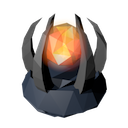
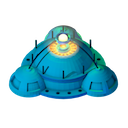
add new building image add explode emmiter

diff --git a/Energy/Energy/islandLayer/MapLayer.swift b/Energy/Energy/islandLayer/MapLayer.swift
@@ -255,6 +255,15 @@ class BuildingMapLayer: SKSpriteNode {
         return data
     }
     
+    // MARK: Explode Emitter
+    func explodeBuilding(building: SKNode) {
+        let emitter = SKEmitterNode(fileNamed: "Explode.sks")!
+        let pos = CGPoint(x: building.position.x + 32, y: building.position.y - 32)
+        emitter.position = pos
+        emitter.zPosition = 1
+        addChild(emitter)
+    }
+    
     // MARK: BuildingMap Update
     func Update() {
         
@@ -454,6 +463,7 @@ class BuildingMapLayer: SKSpriteNode {
         // 1. Destroy
         for element in heatSystemElements {
             if element.buildingData.heatSystem.overflow() {
+                explodeBuilding(element)
                 setTileMapElement(coord: element.coord, buildType: .Land)
             }
             element.progressUpdate()
